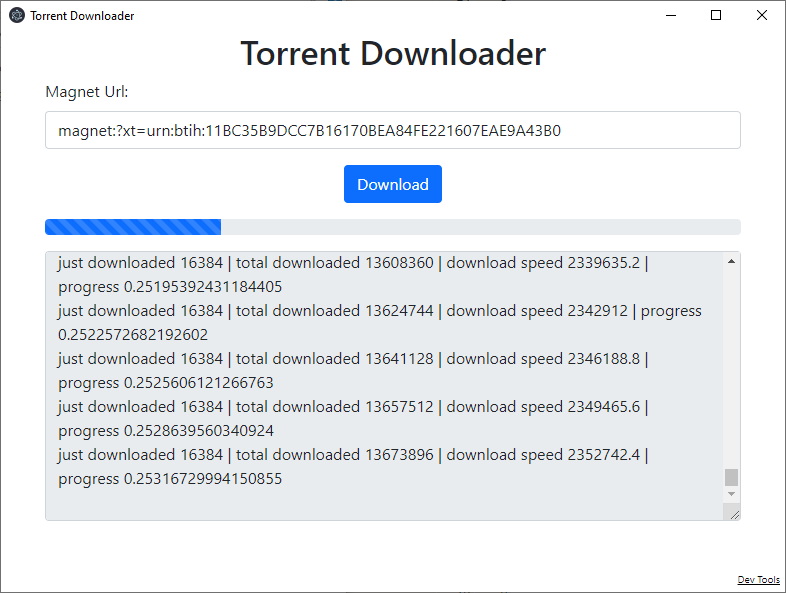
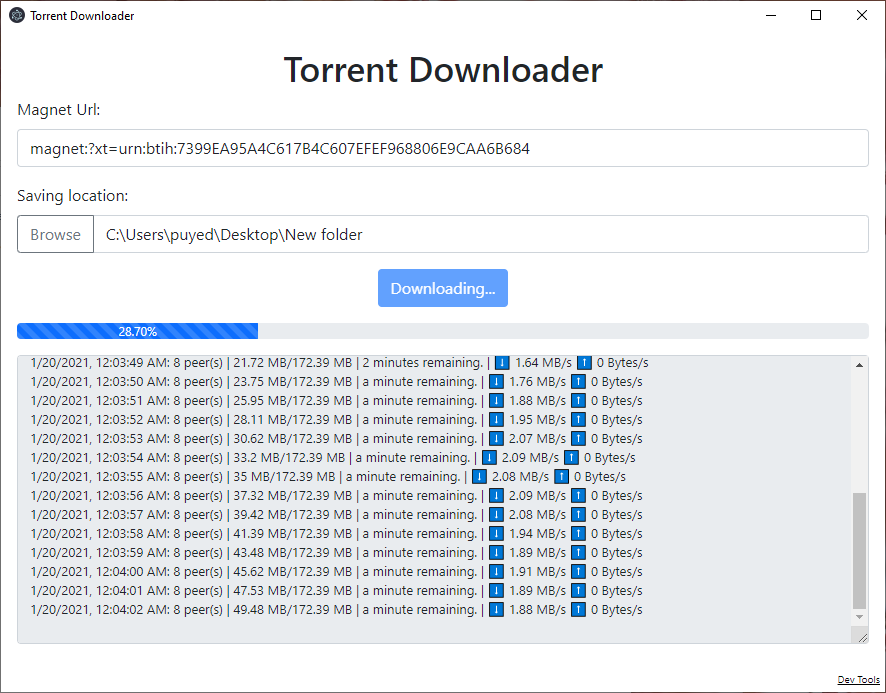
electron: torrent - update logging format

diff --git a/electron/torrent-downloader/index/index.r.js b/electron/torrent-downloader/index/index.r.js
@@ -1,5 +1,7 @@
 const { ipcRenderer } = require('electron');
+const moment = require('moment');
 const channels = require('../channels');
+const { formatBytes } = require('../helper');
 
 const downloadBtn = document.querySelector('#downloadBtn');
 const openDevToolsBtn = document.querySelector('#openDevToolsBtn');
@@ -10,7 +12,7 @@ const browseBtn = document.querySelector('#browseBtn');
 const savingLocationInput = document.querySelector('#savingLocationInput');
 
 function writeLog(msg) {
-    logTextarea.value += `${new Date().toString()}: ${msg}\n`;
+    logTextarea.value += `${new Date().toLocaleString()}: ${msg}\n`;
     logTextarea.scrollTop = logTextarea.scrollHeight;
 }
 
@@ -18,7 +20,15 @@ function isEnoughInputToDownload() {
     return magnetUrlInput.value !== '' && savingLocationInput.value !== '';
 }
 
+function setDownloadProgressBarValue(value) {
+    downloadProgressBar.textContent = value;
+    downloadProgressBar.style.width = value;
+}
+
 downloadBtn.addEventListener('click', () => {
+    writeLog('Start downloading...');
+    downloadBtn.disabled = true;
+    downloadBtn.textContent = 'Downloading...';
     ipcRenderer.send(channels.DownloadTorrent, magnetUrlInput.value, savingLocationInput.value);
 });
 
@@ -32,11 +42,20 @@ savingLocationInput.addEventListener('input', () => downloadBtn.disabled = !isEn
 
 browseBtn.addEventListener('click', () => ipcRenderer.send(channels.OpenSelectFolderDialog, magnetUrlInput.value));
 
-ipcRenderer.on(channels.OnTorrentDownloading, (event, progress) => {
-    downloadProgressBar.style.width = `${progress * 100}%`;
+ipcRenderer.on(channels.OnTorrentDownloading, (event, report) => {
+    let remaining = moment.duration(report.timeRemaining / 1000, 'seconds').humanize() + ' remaining.';
+    writeLog(`${report.numPeers} peer(s)`
+        + ` | ${formatBytes(report.downloaded)}/${formatBytes(report.length)}`
+        + ` | ${remaining}`
+        + ` | ⬇ ${formatBytes(report.downloadSpeed)}/s ⬆ ${formatBytes(report.uploadSpeed)}/s`);
+    let progress = `${parseFloat(report.progress * 100).toFixed(2)}%`;
+    setDownloadProgressBarValue(progress);
 });
 
 ipcRenderer.on(channels.OnTorrentFinished, (event, args) => {
+    downloadBtn.disabled = false;
+    downloadBtn.textContent = 'Download';
+    setDownloadProgressBarValue('100%');
     writeLog('Download finished.');
 });
 

diff --git a/electron/torrent-downloader/index/index.m.js b/electron/torrent-downloader/index/index.m.js
@@ -12,8 +12,8 @@ let win;
 
 function createWindow() {
     win = new BrowserWindow({
-        width: 800,
-        height: 650,
+        width: 900,
+        height: 700,
         webPreferences: {
             nodeIntegration: true
         }
@@ -21,6 +21,12 @@ function createWindow() {
 
     win.loadFile(path.join(__dirname, 'index.html'));
     win.setMenuBarVisibility(false);
+}
+
+function onDownloadingReport(torrent) {
+    let { progress, numPeers, downloaded, length, timeRemaining, downloadSpeed, uploadSpeed} = torrent;
+    let report = { progress, numPeers, downloaded, length, timeRemaining, downloadSpeed, uploadSpeed};
+    win.webContents.send(channels.OnTorrentDownloading, report);
 }
 
 ipcMain.on(channels.ToggleDevTools, (event, arg) => {
@@ -35,14 +41,12 @@ ipcMain.on(channels.DownloadTorrent, (event, magnetUrl, selectedFolder) => {
             path: selectedFolder
         },
         torrent => {
-            torrent.on('download',
-                bytes => {
-                    win.webContents.send(channels.OnTorrentDownloading, torrent.progress);
-                });
+            let interval = setInterval(() => onDownloadingReport(torrent), 1000);
             torrent.on('done',
                 () => {
                     win.webContents.send(channels.OnTorrentFinished);
                     torrent.destroy();
+                    clearInterval(interval);
                 });
         });
 });

diff --git a/electron/torrent-downloader/index/index.html b/electron/torrent-downloader/index/index.html
@@ -32,7 +32,7 @@
                 style="width: 0%;" id="downloadProgressBar"></div>
         </div>
         <div class="flex-grow-1 pb-5">
-            <textarea class="form-control mt-3 h-100" id="logTextarea" rows="10" disabled></textarea>
+            <textarea class="form-control mt-3 h-100" style="font-size: small;" id="logTextarea" disabled></textarea>
         </div>
     </div>
     <a class="dev-tools" id="openDevToolsBtn">Dev Tools</button>

diff --git a/electron/torrent-downloader/helper.js b/electron/torrent-downloader/helper.js
@@ -1,0 +1,13 @@
+module.exports = { formatBytes };
+
+function formatBytes(bytes, decimals = 2) {
+    if (bytes === 0) return '0 Bytes';
+
+    const k = 1024;
+    const dm = decimals < 0 ? 0 : decimals;
+    const sizes = ['Bytes', 'KB', 'MB', 'GB', 'TB', 'PB', 'EB', 'ZB', 'YB'];
+
+    const i = Math.floor(Math.log(bytes) / Math.log(k));
+
+    return parseFloat((bytes / Math.pow(k, i)).toFixed(dm)) + ' ' + sizes[i];
+}
